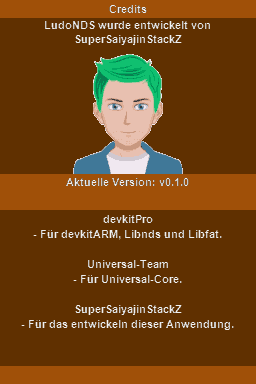
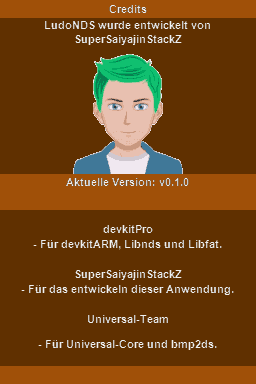
Credits: Positionen fix und bmp2ds zu Universal-Team credits.

Changed region(s): [[0.0938, 0.5625, 0.9062, 0.9062]]

diff --git a/arm9/source/overlays/CreditsOverlay.cpp b/arm9/source/overlays/CreditsOverlay.cpp
@@ -37,14 +37,16 @@ void Overlays::CreditsOverlay() {
 	Gui::font.print(Lang::get("CURRENT_VERSION") + "v0.1.0", 0, 175, true, 2, Alignment::center);
 
 	Gui::TopBG.draw(0, 0, false, 3, true);
-	Gui::font.print("devkitPro", 0, 20, false, 2, Alignment::center);
-	Gui::font.print(Lang::get("DEVKITPRO"), 0, 35, false, 2, Alignment::center);
+	Gui::font.print("devkitPro", 0, 30, false, 2, Alignment::center);
+	Gui::font.print(Lang::get("DEVKITPRO"), 0, 45, false, 2, Alignment::center);
 
-	Gui::font.print("Universal-Team", 0, 65, false, 2, Alignment::center);
-	Gui::font.print(Lang::get("UNIVERSAL_CORE"), 0, 80, false, 2, Alignment::center);
+	Gui::font.print("SuperSaiyajinStackZ", 0, 75, false, 2, Alignment::center);
+	Gui::font.print(Lang::get("DEVELOPING_APP"), 0, 90, false, 2, Alignment::center);
 
-	Gui::font.print("SuperSaiyajinStackZ", 0, 110, false, 2, Alignment::center);
-	Gui::font.print(Lang::get("DEVELOPING_APP"), 0, 125, false, 2, Alignment::center);
+	Gui::font.print("Universal-Team", 0, 120, false, 2, Alignment::center);
+	Gui::font.print(Lang::get("UNIVERSAL_CORE"), 0, 145, false, 2, Alignment::center);
+
+
 	Gui::font.update();
 
 	while(!doOut) {
